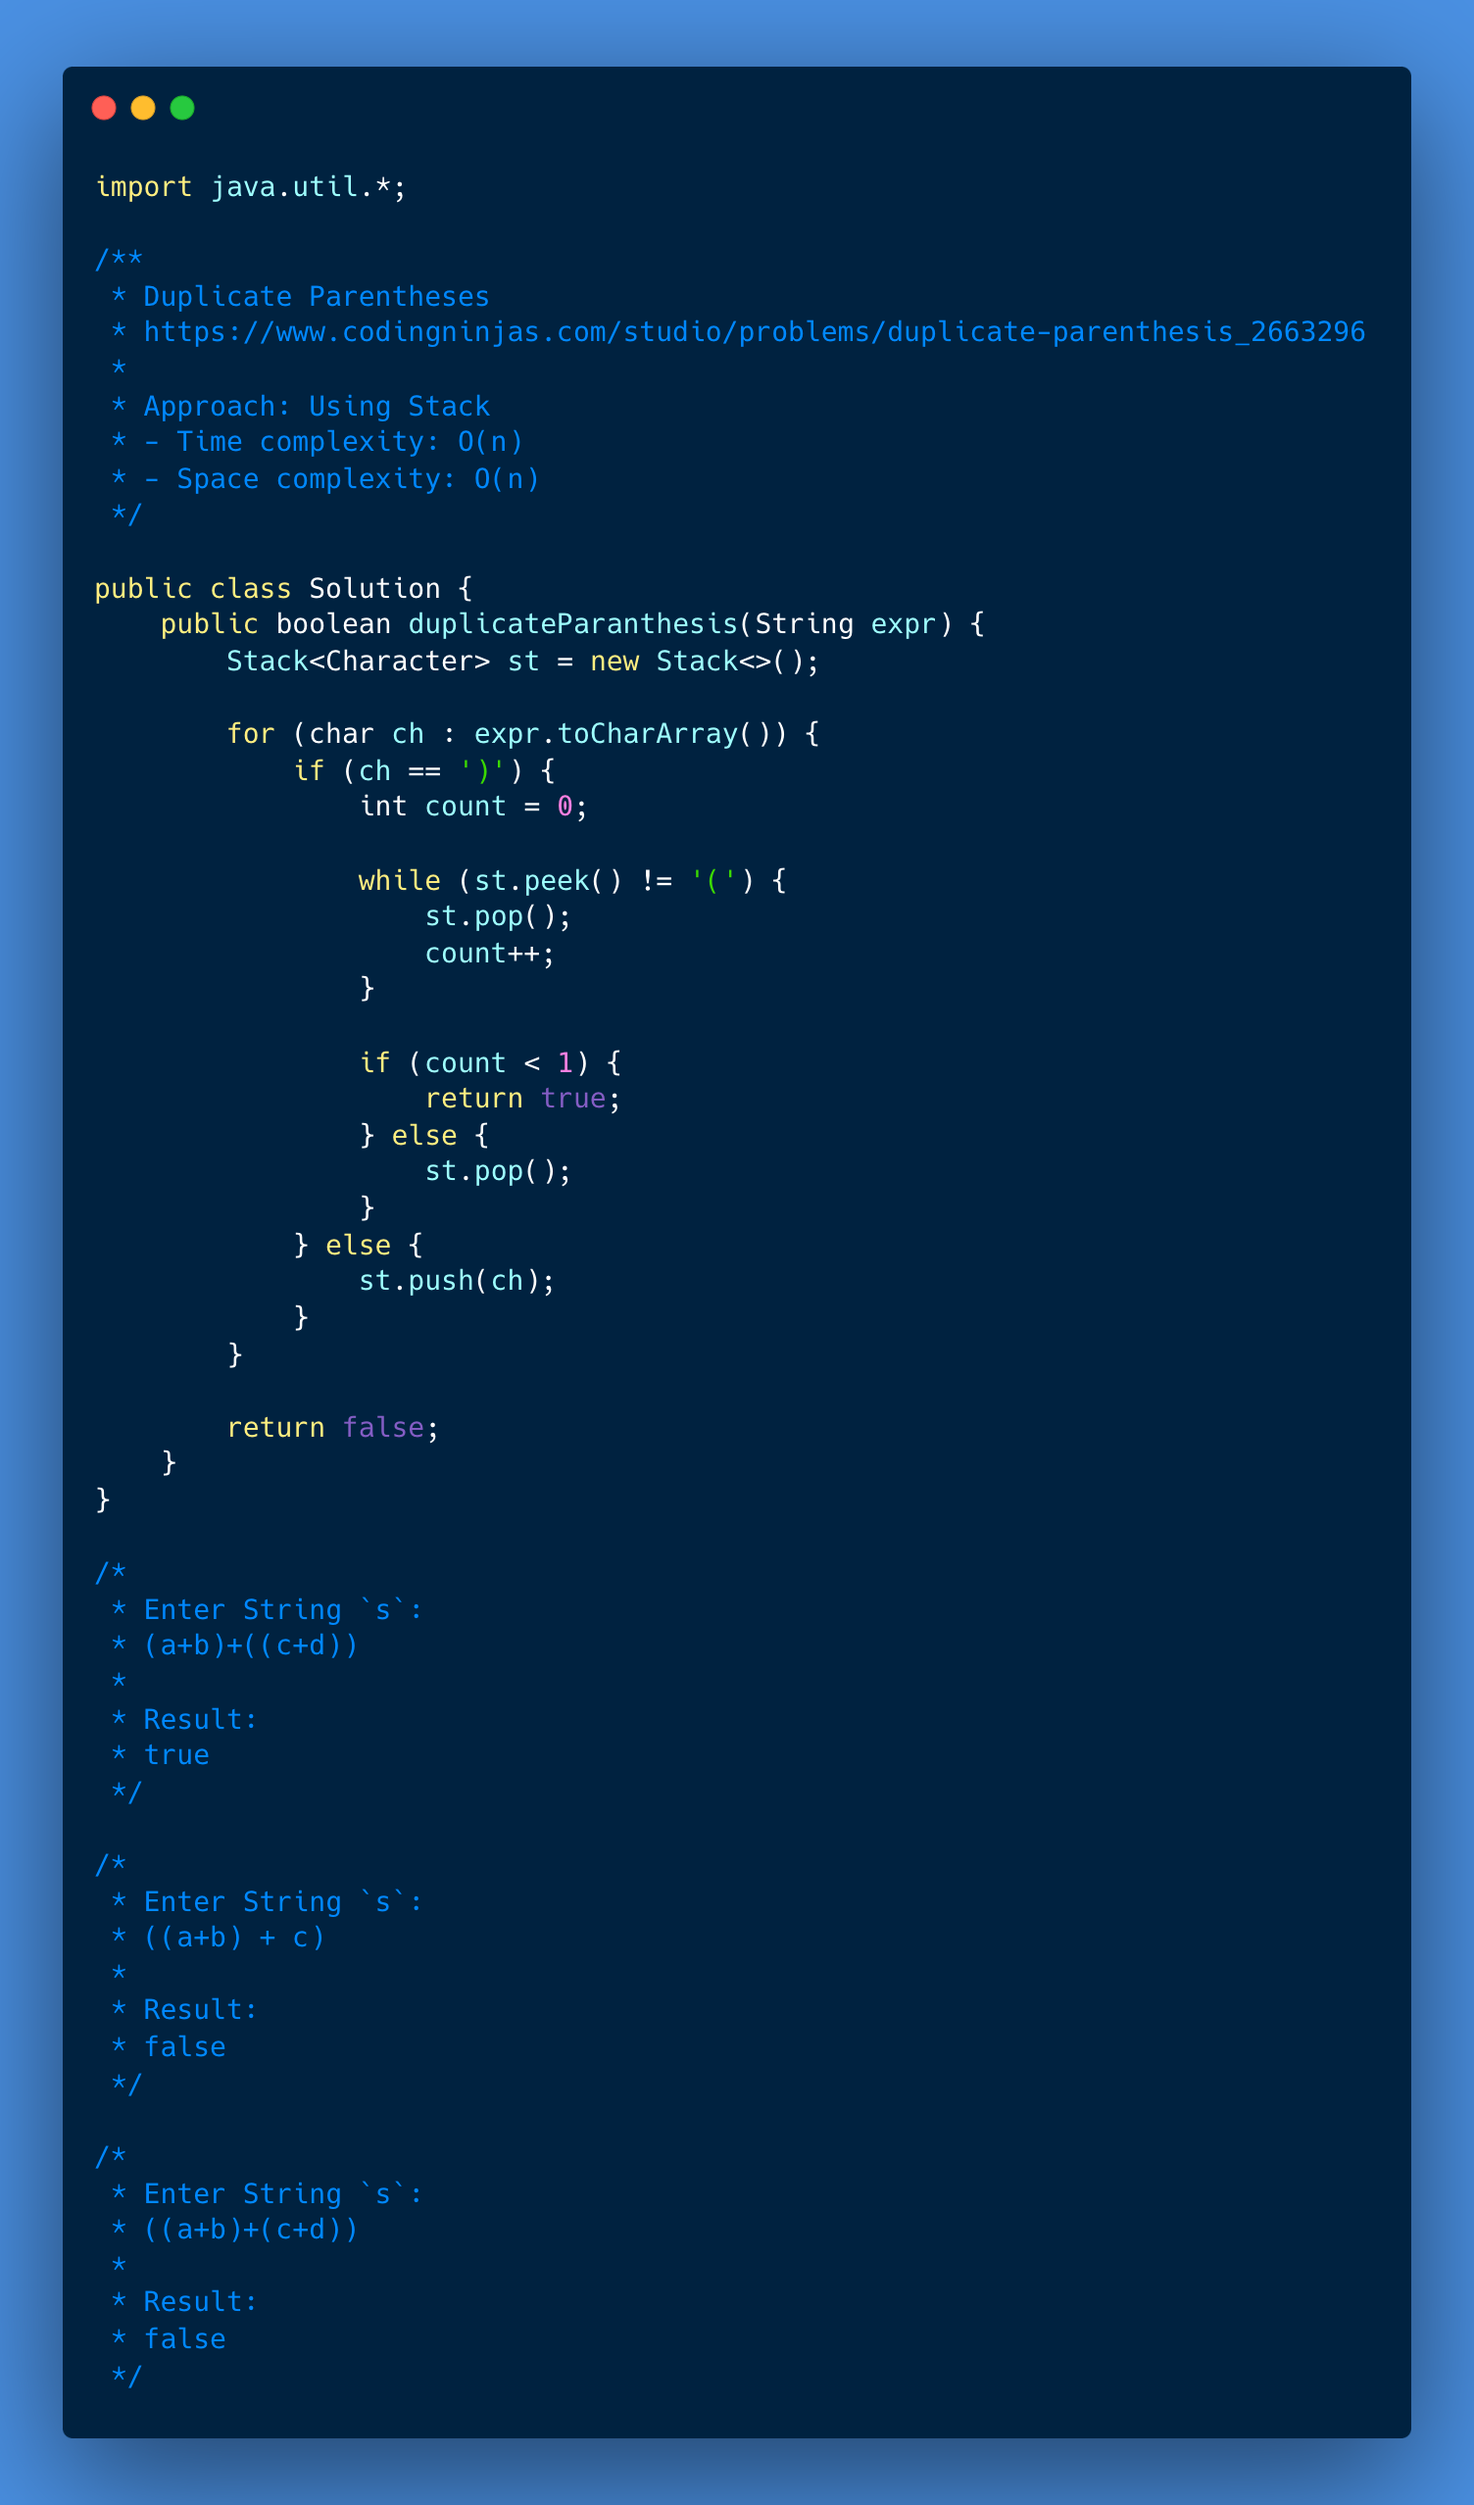
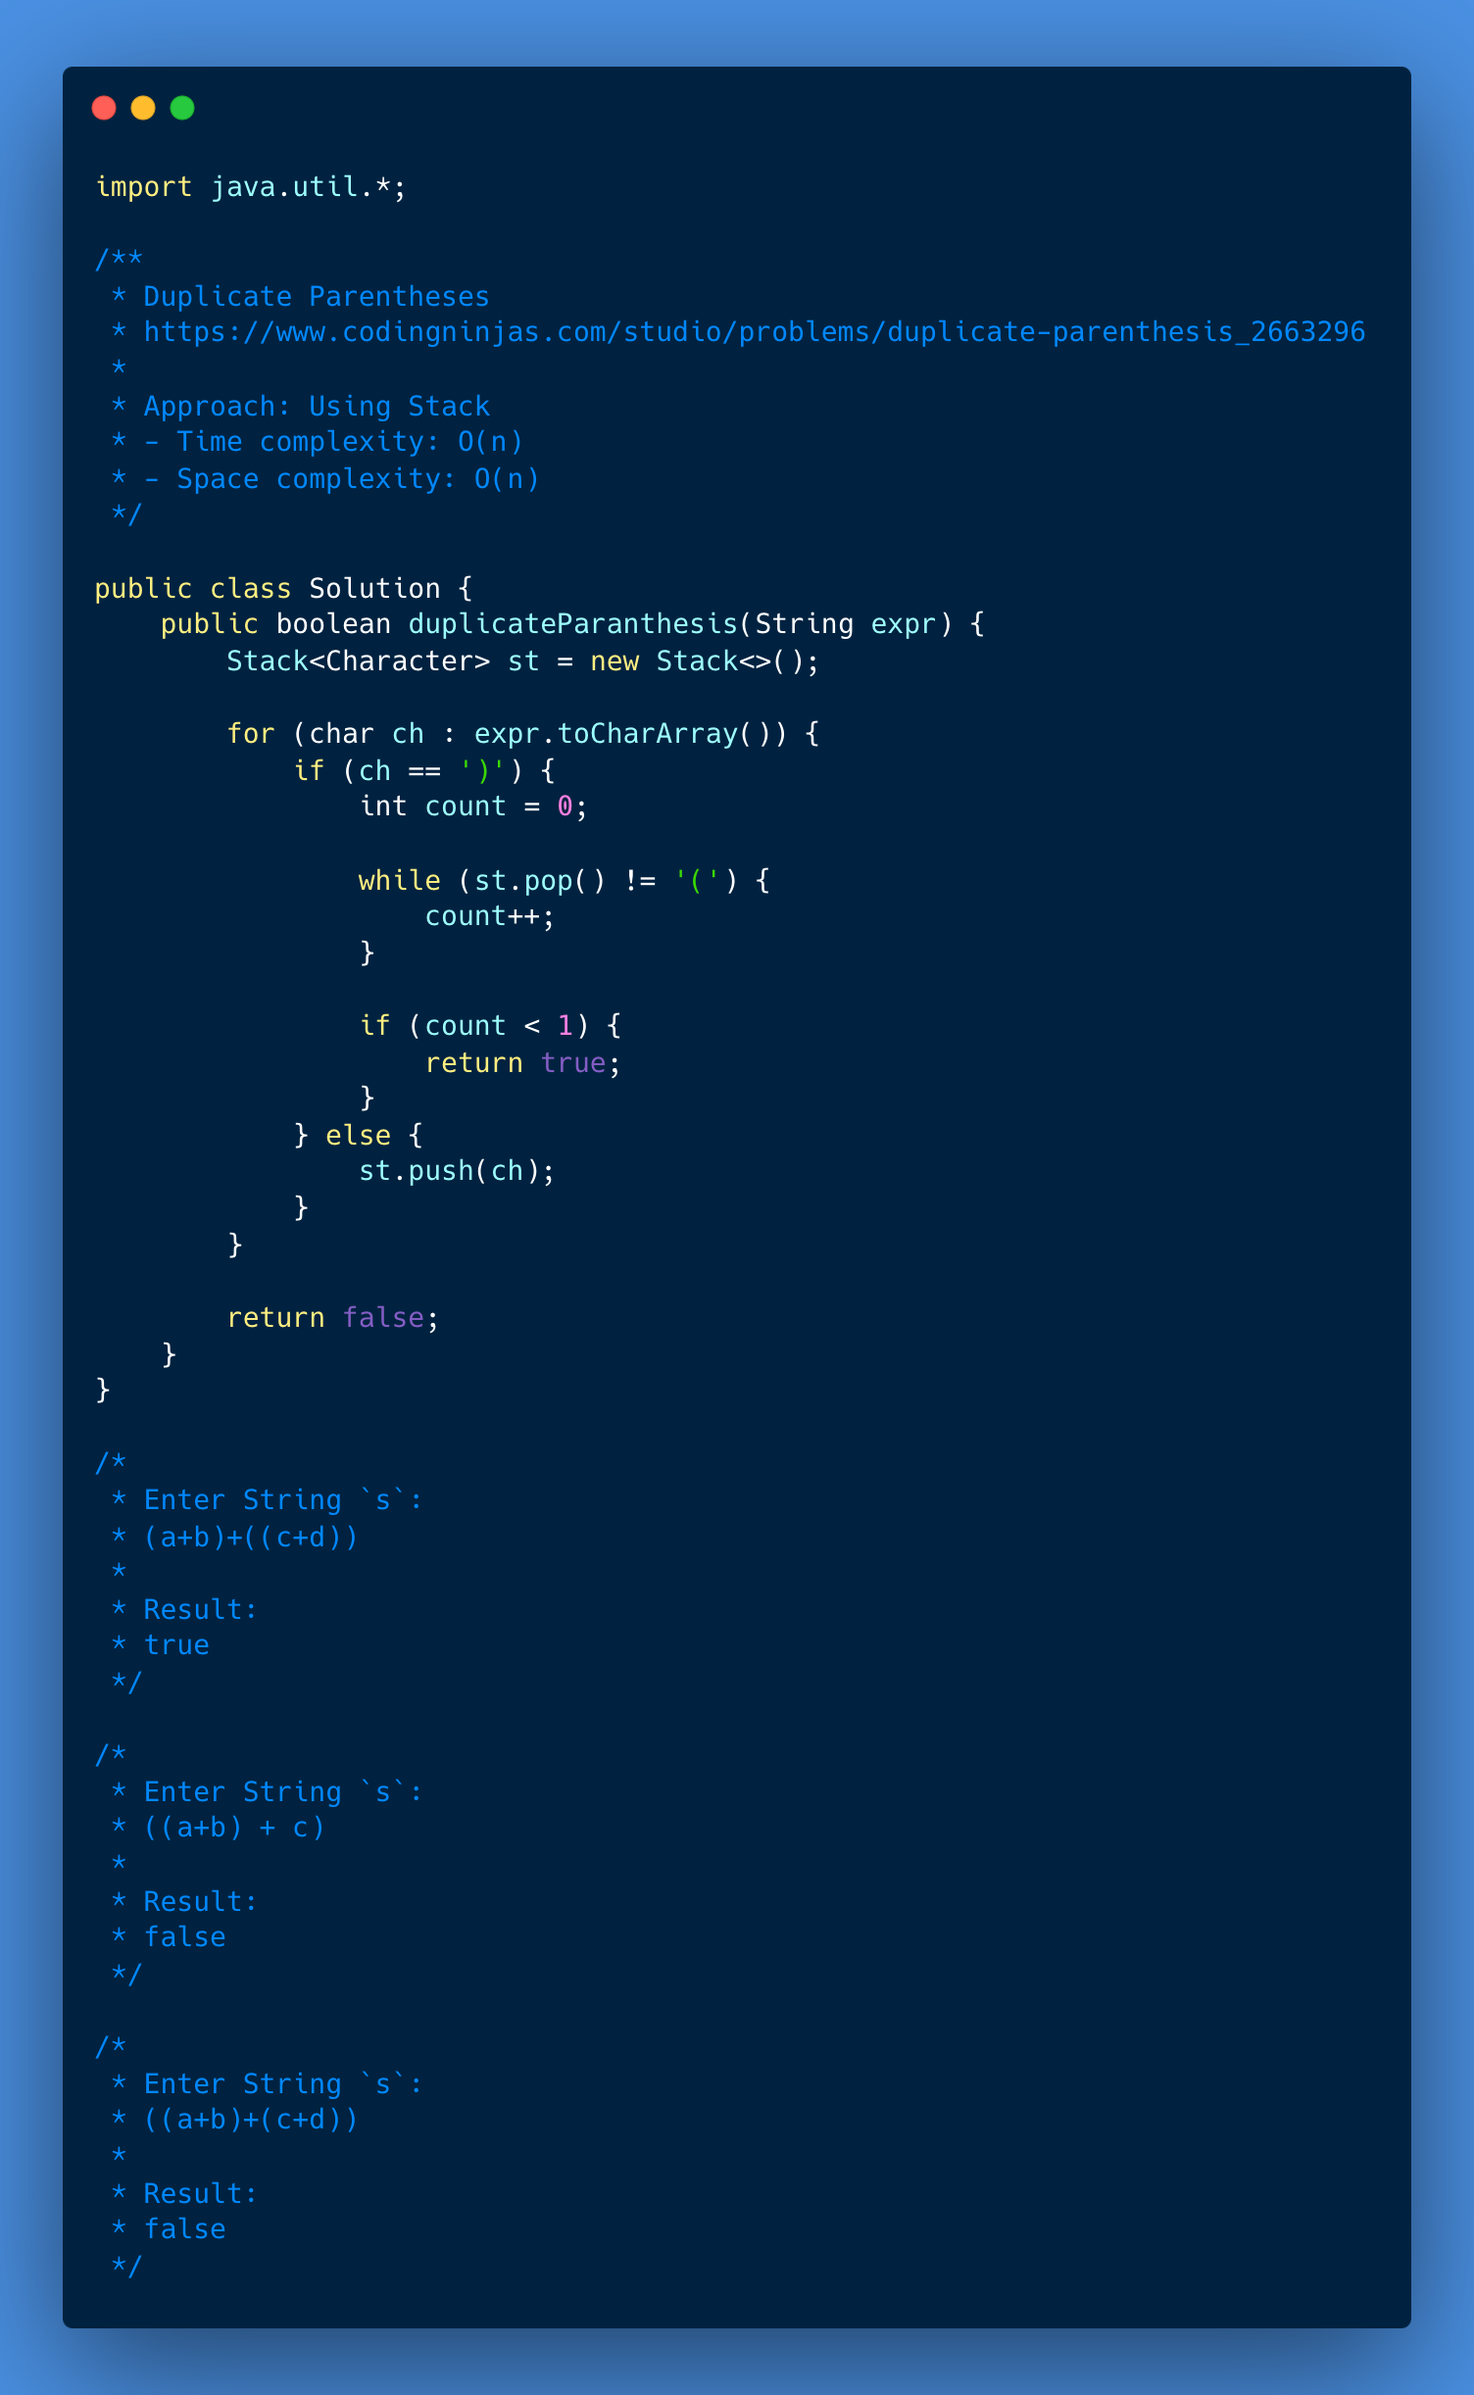
code improvements

diff --git a/180-duplicate-parentheses/001-solution/Solution.java b/180-duplicate-parentheses/001-solution/Solution.java
@@ -17,15 +17,12 @@ public class Solution {
             if (ch == ')') {
                 int count = 0;
 
-                while (st.peek() != '(') {
-                    st.pop();
+                while (st.pop() != '(') {
                     count++;
                 }
 
                 if (count < 1) {
                     return true;
-                } else {
-                    st.pop();
                 }
             } else {
                 st.push(ch);
